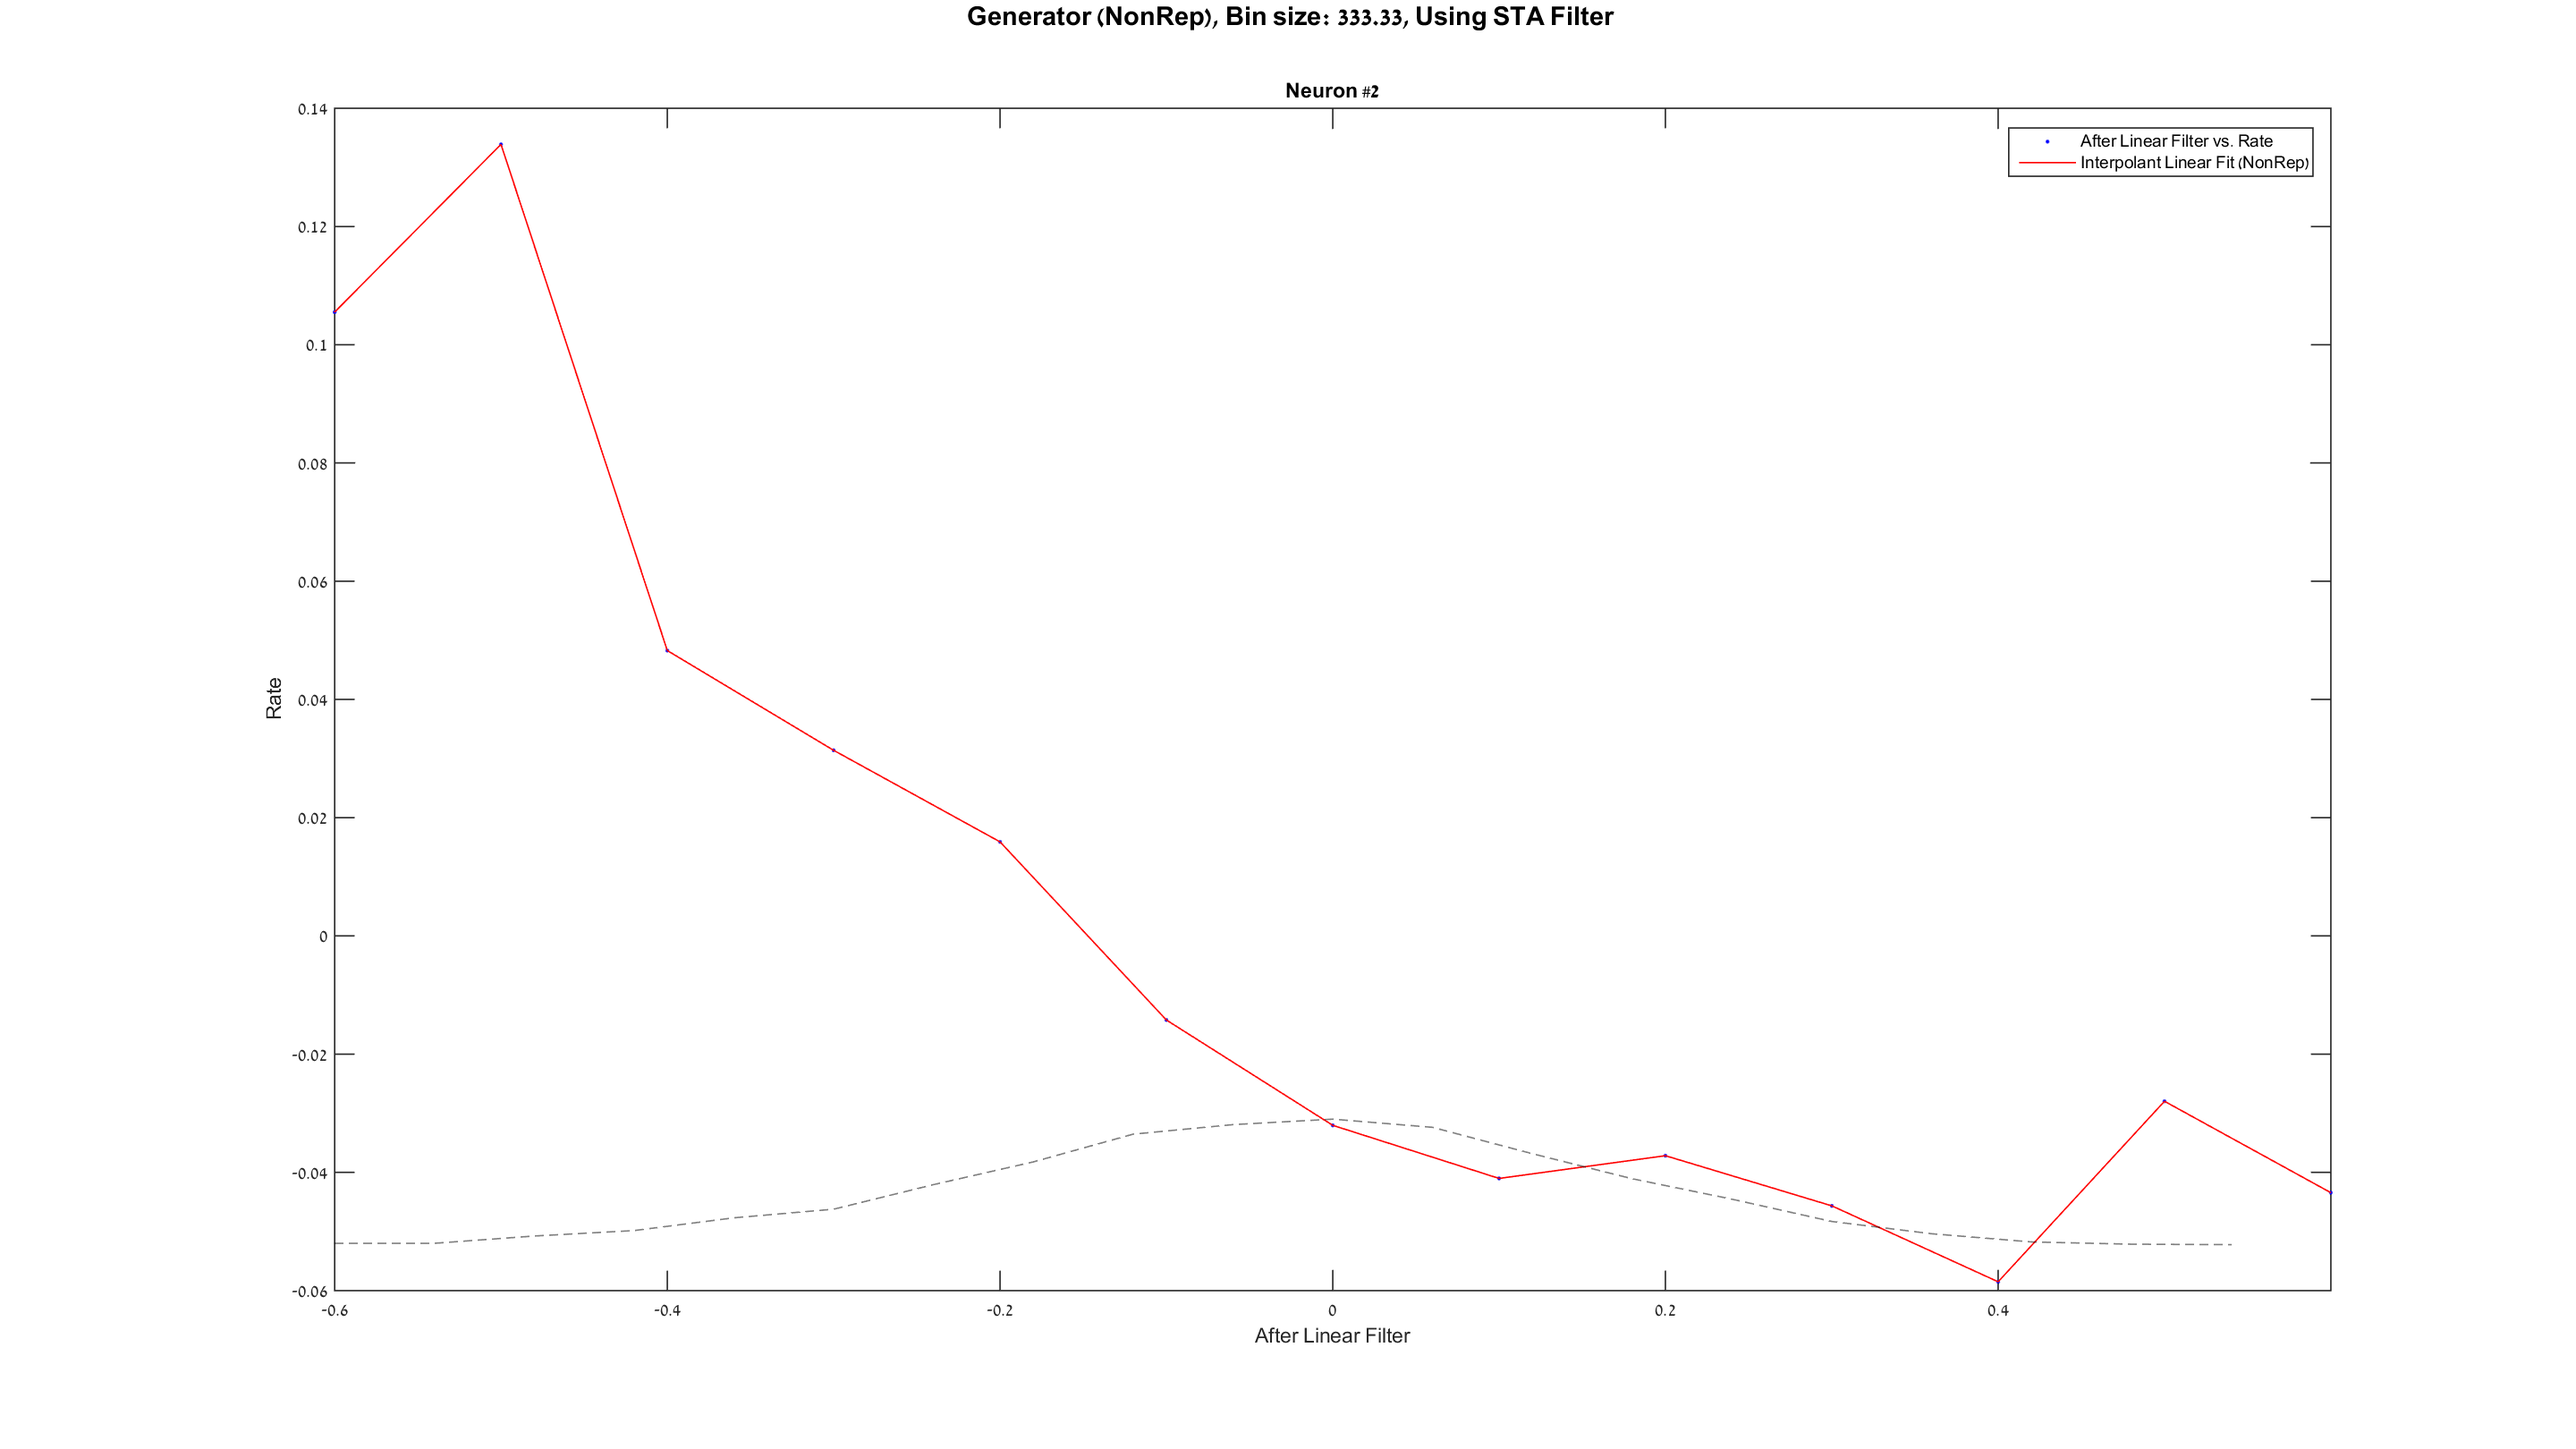
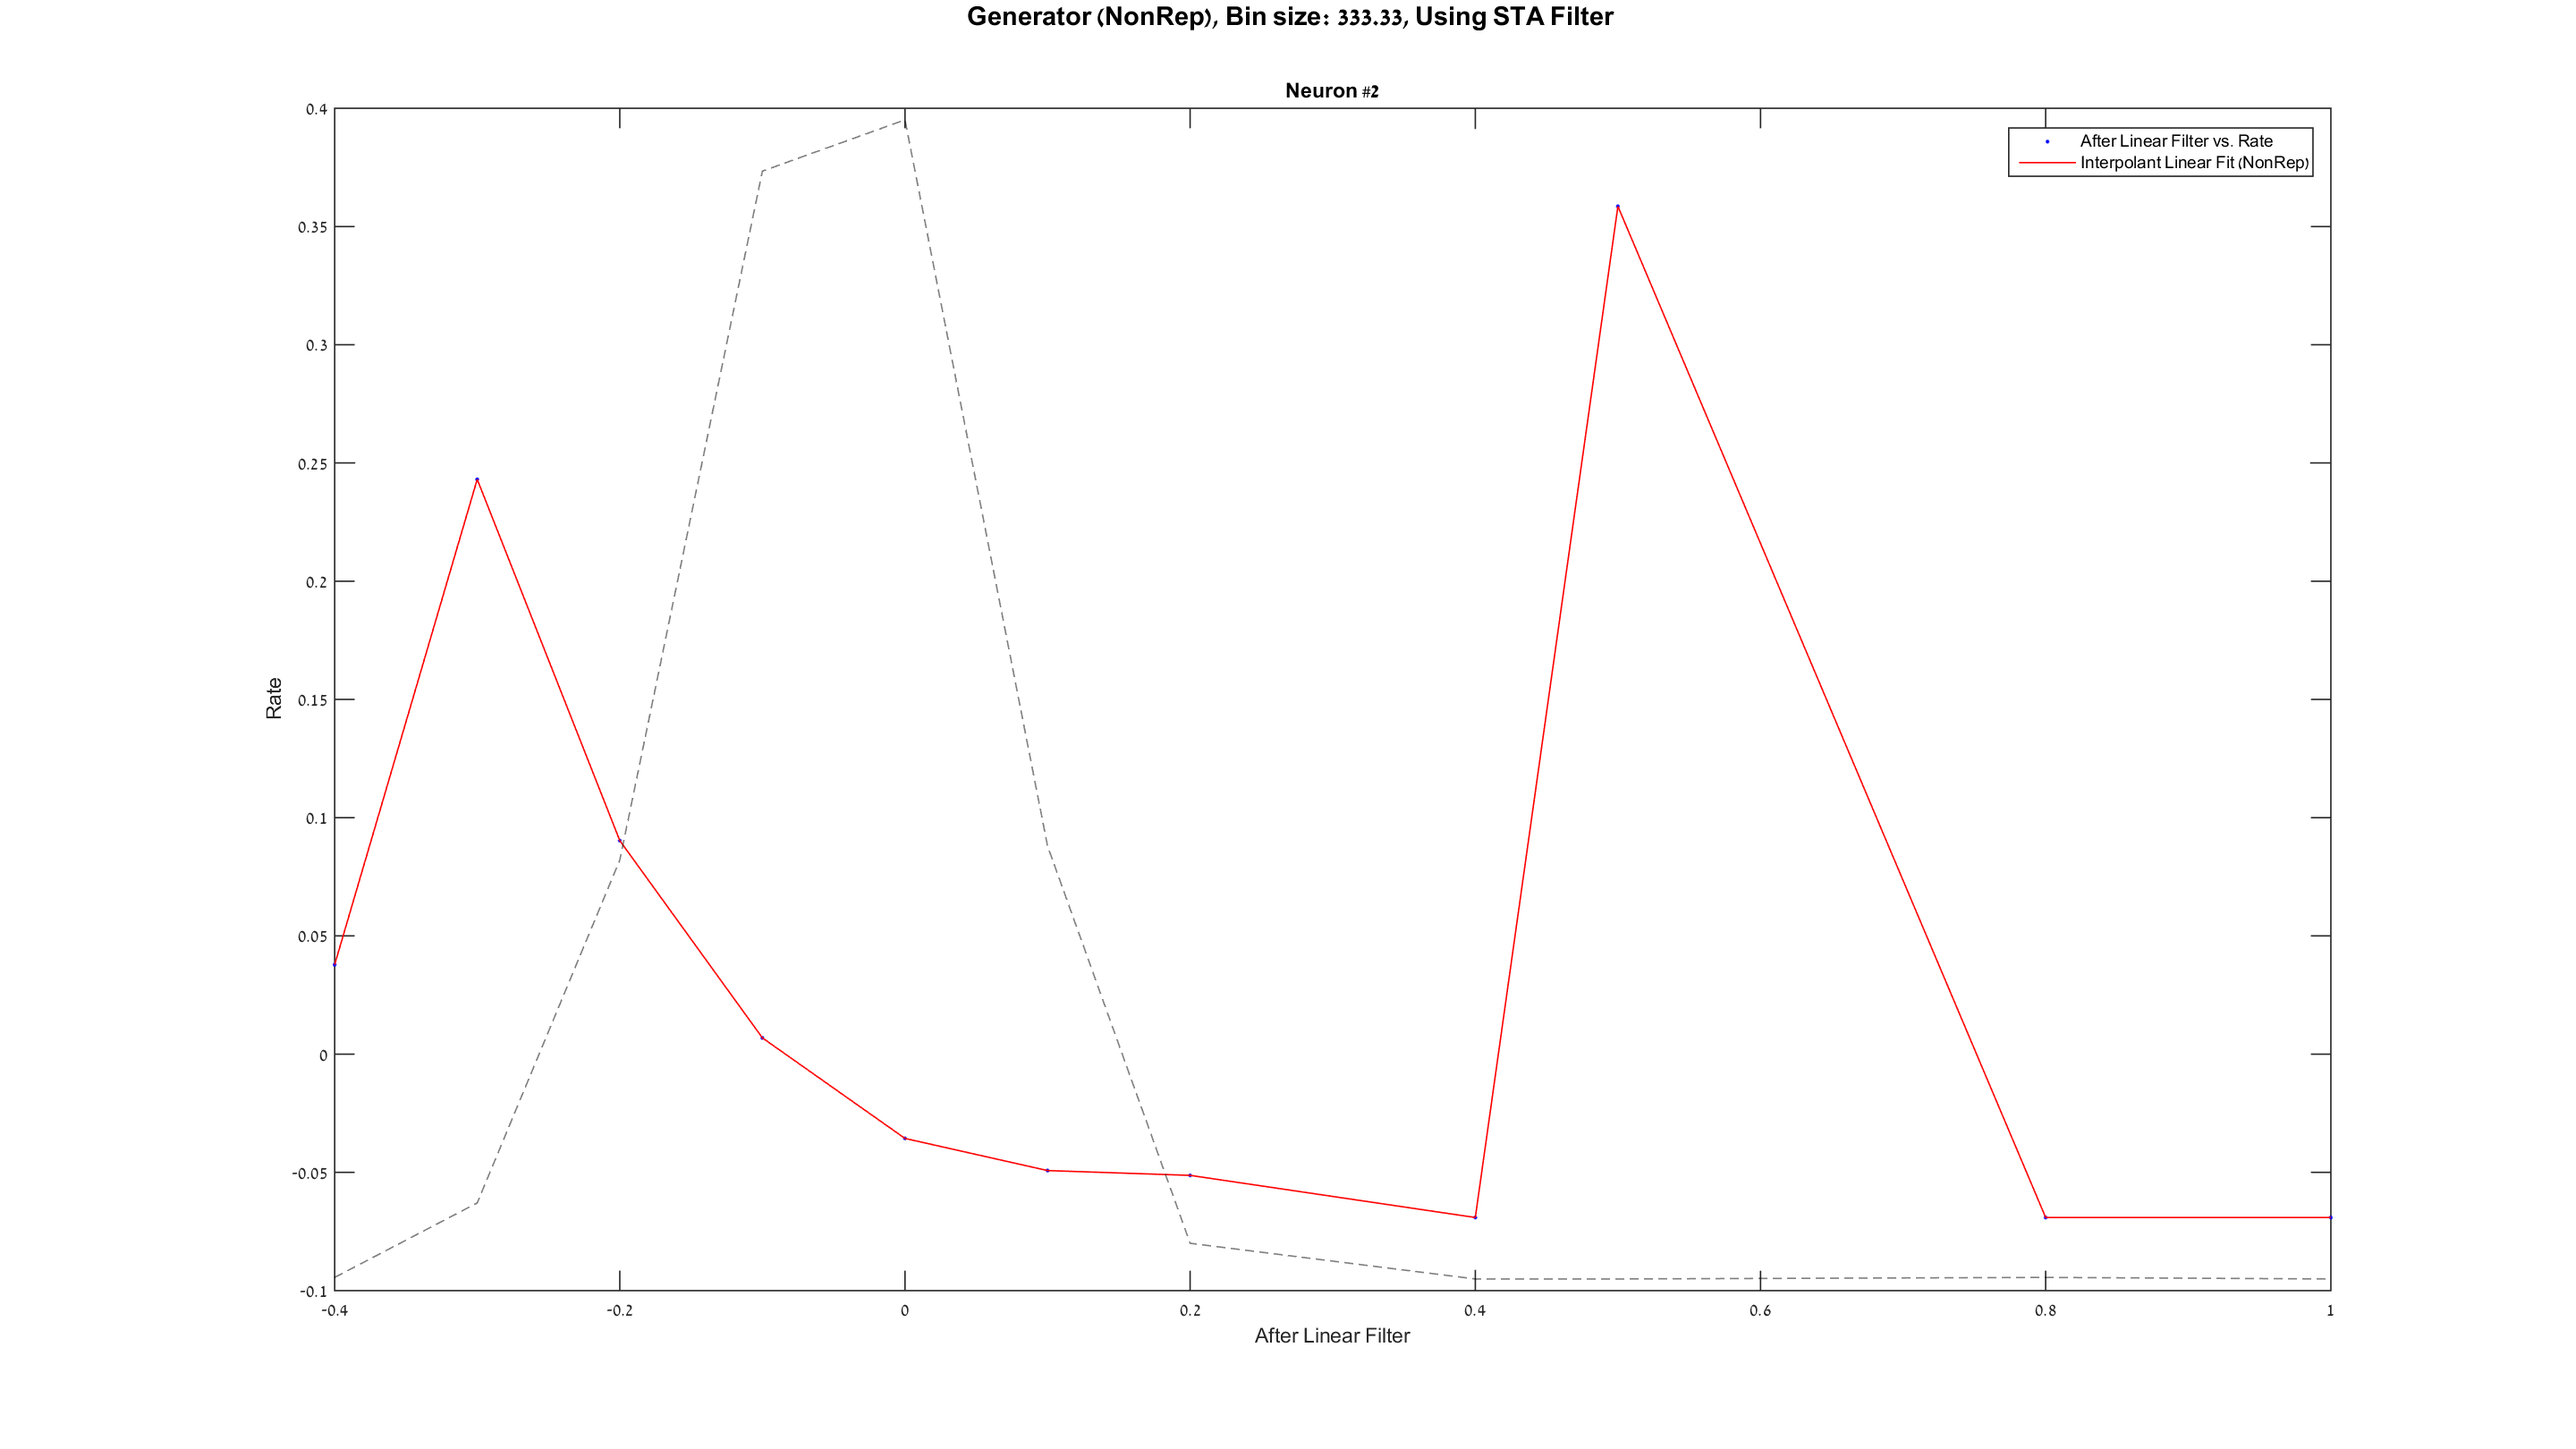
QuickNDirty, not normalizing stimValues pre conv
*remove iteration.time relative time usage and then fixing to absolute
*we decided not to normalize stim values before conv

Changed region(s): [[0.75, 0.8642, 0.7812, 0.8951]]

diff --git a/4/QuickAndDirty.m b/4/QuickAndDirty.m
@@ -38,9 +38,7 @@ iEnd = iIteration+1;
 %actual ticks in trail limited by TICKS_IN_TRAIL
 dataTicks = TICKS_IN_TRAIL;
 
-%Normalize stim time to start from 1
-StimTimeNonRepNorm=StimTimeNonRep-StimTimeNonRep(iStart)+1;
-iteration.time= (StimTimeNonRepNorm(iStart):StimTimeNonRepNorm(iEnd)-1)'; %first 100 secs
+iteration.time= (StimTimeNonRep(iStart):StimTimeNonRep(iEnd)-1)'; %first 100 secs
 dataTicks = min(dataTicks,length(iteration.time)); 
 
 % get stim values of the current non-rep trail        
@@ -83,7 +81,7 @@ iteration.APs(indexesOfAPsInTrail)=1;
 
 %create fixed data set
 iteration.all = NaN(dataTicks, 3);
-iteration.all(:,1) = iteration.time + onset -1;
+iteration.all(:,1) = iteration.time;
 iteration.all(:,2) = iteration.stimuli;
 iteration.all(:,3) = iteration.APs;
 
@@ -153,15 +151,13 @@ lastIterationIndex = 0;
 
 iIteration=1;
 
-%create Data that contains normalized data and a column for the filtered data
+%create another column for the filtered data
 data = Simulation.Neuron{iNeuron}.Iteration{iIteration};
 data(:, 4) = NaN(length(data), 1);
 
-times = data(:,1);
 stimValues = data(:,2);
 
-NORMALIZE = 1; NORMALIZE_BY_MAX=1;
-stimValues = normalize(stimValues, NORMALIZE, NORMALIZE_BY_MAX);
+%NOTE: we decided not to normalize stim values before conv
 
 %update normalized values
 data(:,2) = stimValues;

diff --git a/4/createFit.m b/4/createFit.m
@@ -26,7 +26,7 @@ ft = 'linearinterp';
 
 % Plot fit with data.
 h = plot( fitresult, xData, yData );
-xlim([-0.6 0.6]);
+xlim([min(xData) max(xData)]);
 
 legend( h, 'After Linear Filter vs. Rate', ...
     sprintf('Interpolant Linear Fit (%s)', MODE), 'Location', 'NorthEast');
@@ -50,7 +50,7 @@ ax2 = axes('Position',ax1_pos,...
 %ax2.XColor = [0 0 0 0]; %transparent
 
 ylabel(ax2, 'Bin counts');
-ylim(ax2, [-100, 2500]);
+ylim(ax2, [min(bincounts)-max(bincounts)*0.01, max(bincounts)+max(bincounts)*0.01]);
 
 hl = line(xData,bincounts,'Parent',ax2,'Color','k');
 hl.LineStyle = '--';
